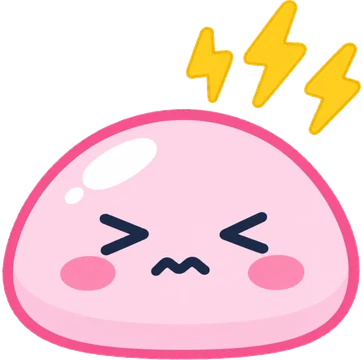
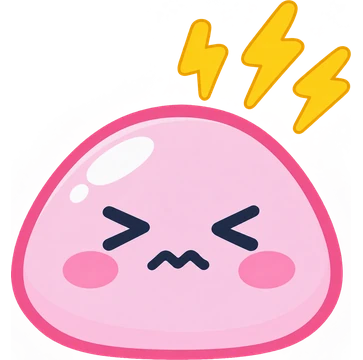
feat(moods): app Mochi mood art and no Log Today phone
- Happy, Sleepy, Crampy and Cozy Mochis generated in ChatGPT from the app's Mochi
  pictures (body shape, outline, face style and colors), keeping each mood's props
  (joy rays, Zzz, lightning bolts, blanket and heart)
- Removed the Log Today phone mockup (LogTodayPhone, MoodFace, SymptomIcon) from the
  section; the grid is now text + moods
- Moods are centered and shown 1.45x larger from the poster breakpoint up, to fill
  the space the phone used; the mobile layout is unchanged apart from the bottom
  padding the phone no longer needs

Claude-Session: https://claude.ai/code/session_01ToUdgrAjtHUxi377A78jyL

diff --git a/src/features/landing/components/sections/MoodSection.tsx b/src/features/landing/components/sections/MoodSection.tsx
@@ -1,14 +1,6 @@
 import Image from "next/image";
 import { useTranslations } from "next-intl";
 import { MOOD_ASSETS } from "@/features/landing/content/assets";
-import {
-  MOOD_FACE_CLASS,
-  MOOD_TONES,
-  SYMPTOM_CHIP_CLASS,
-  SYMPTOM_IDS,
-  type MoodTone,
-} from "@/features/landing/content/visual-variants";
-import { StatusIcons } from "@/features/landing/components/shared/decor";
 import { PosterStage } from "@/features/landing/components/shared/PosterStage";
 import { cn } from "@/lib/utils";
 
@@ -43,137 +35,13 @@ const MOODS = [
   },
 ] as const;
 
-/* Mood faces for the Log Today sheet, drawn to match the app's mood picker. */
-function MoodFace({ tone }: { tone: MoodTone }) {
-  return (
-    <svg className={cn("size-[85%]", MOOD_FACE_CLASS[tone].ink)} viewBox="0 0 24 24" aria-hidden="true">
-      <g fill="none" stroke="currentColor" strokeWidth="1.5" strokeLinecap="round">
-        {tone === "joy" && (
-          <>
-            <path d="M7 10.5q1.5-2 3 0M14 10.5q1.5-2 3 0" />
-            <path d="M8.5 13.5q3.5 3.5 7 0Z" fill="currentColor" />
-          </>
-        )}
-        {tone === "calm" && (
-          <>
-            <path d="M7 10.5q1.5-2 3 0M14 10.5q1.5-2 3 0" />
-            <path d="M10 14q2 1.6 4 0" />
-          </>
-        )}
-        {tone === "meh" && (
-          <>
-            <path d="M7.5 9.5l2 1.2M16.5 9.5l-2 1.2" />
-            <path d="M10.5 15q1.5-1.2 3 0" />
-          </>
-        )}
-        {tone === "sad" && (
-          <>
-            <circle cx="9" cy="10.5" r="1" fill="currentColor" stroke="none" />
-            <circle cx="15" cy="10.5" r="1" fill="currentColor" stroke="none" />
-            <path d="M10 15.5q2-1.6 4 0" />
-          </>
-        )}
-      </g>
-    </svg>
-  );
-}
-
-function SymptomIcon({
-  name,
-}: {
-  name: "cramps" | "bloating" | "headache" | "tired";
-}) {
-  if (name === "cramps")
-    return (
-      <svg className="size-[70%]" viewBox="0 0 24 24" aria-hidden="true">
-        <path className="fill-mood-symptom-cramps" d="M13.5 3 6.5 13h5l-1.5 8 7.5-10.5h-5L13.5 3Z" />
-      </svg>
-    );
-  if (name === "bloating")
-    return (
-      <svg className="size-[70%]" viewBox="0 0 24 24" aria-hidden="true">
-        <g className="stroke-mood-symptom-bloating" fill="none" strokeWidth="1.8" strokeLinecap="round">
-          <path d="M5 9q1.75-2 3.5 0t3.5 0 3.5 0 3.5 0" />
-          <path d="M5 14q1.75-2 3.5 0t3.5 0 3.5 0 3.5 0" />
-        </g>
-      </svg>
-    );
-  if (name === "headache")
-    return (
-      <svg className="size-[70%]" viewBox="0 0 24 24" aria-hidden="true">
-        <path className="fill-mood-symptom-headache" d="M5 16.5c0-5.2 3.1-8.5 7-8.5s7 3.3 7 8.5Z" />
-      </svg>
-    );
-  return (
-    <svg className="size-[70%]" viewBox="0 0 24 24" aria-hidden="true">
-      <text className="fill-mood-symptom-tired" x="6" y="17" fontSize="11" fontWeight="900">
-        z
-      </text>
-      <text className="fill-mood-symptom-tired" x="13" y="12" fontSize="8" fontWeight="900">
-        z
-      </text>
-    </svg>
-  );
-}
-
-function LogTodayPhone() {
-  const t = useTranslations("Moods");
-  const sheetLabel = "mt-7 mb-4 ml-2 text-u-9 font-max";
-  const row = "flex justify-between px-2";
-
-  return (
-    <div
-      className="relative z-2 ml-23 -mb-[calc(var(--section-space)+12*var(--spacing))] self-end h-220 w-172 p-6 border-mood-phone-border border-[length:calc(3*var(--spacing))] rounded-u-30 bg-mood-phone-bg [box-shadow:0_0_0_calc(1*var(--spacing))_var(--color-mood-phone-shadow),0_calc(8*var(--spacing))_calc(18*var(--spacing))_var(--color-mood-phone-shadow-2)] rotate-[4.5deg] max-poster:[--spacing:calc(min(62vw,290px)/172)] max-poster:h-150 max-poster:mt-[26px] max-poster:-mb-12 max-poster:mx-auto max-poster:rounded-b-none"
-      role="img"
-      aria-label={t("phoneLabel")}
-    >
-      <div className="h-full overflow-hidden px-11 pt-7 rounded-u-24 bg-mood-screen-bg text-ink-slate" aria-hidden="true">
-        <div className="relative flex h-12 items-center justify-between px-4">
-          <b className="text-u-6.5 font-black">9:41</b>
-          <i className="absolute left-1/2 -top-1 h-10 w-36 rounded-full bg-black -translate-x-1/2" />
-          <StatusIcons className="h-auto w-26 text-ink-slate" />
-        </div>
-        <div className="relative flex items-center justify-center mt-5">
-          <span className="absolute left-2 top-1/2 text-u-13 font-bold leading-none -translate-y-[55%]">×</span>
-          <b className="text-u-11 font-max tracking-[-0.01em]">{t("logToday")}</b>
-        </div>
-        <p className={sheetLabel}>{t("mood")}</p>
-        <ul className={row}>
-          {MOOD_TONES.map((tone) => (
-            <li
-              key={tone}
-              className={cn(
-                "grid size-21 place-items-center rounded-full [box-shadow:0_calc(1*var(--spacing))_calc(3*var(--spacing))_var(--color-mood-face-shadow)]",
-                MOOD_FACE_CLASS[tone].chip,
-              )}
-            >
-              <MoodFace tone={tone} />
-            </li>
-          ))}
-        </ul>
-        <p className={sheetLabel}>{t("symptoms")}</p>
-        <ul className={row}>
-          {SYMPTOM_IDS.map((id) => (
-            <li key={id} className="grid justify-items-center gap-2 text-u-5 font-black">
-              <span className={cn("grid size-21 place-items-center rounded-full", SYMPTOM_CHIP_CLASS[id])}>
-                <SymptomIcon name={id} />
-              </span>
-              {t(`symptomNames.${id}`)}
-            </li>
-          ))}
-        </ul>
-      </div>
-    </div>
-  );
-}
-
-/** Section 3: four mood Mochis and the Log Today sheet. */
+/** Section 3: four mood Mochis. */
 export function MoodSection() {
   const t = useTranslations("Moods");
 
   return (
     <section id="moods" className="relative overflow-hidden bg-mood-band text-white">
-      <PosterStage bleed="bottom" className="grid items-center px-58 grid-cols-[calc(339*var(--spacing))_calc(404*var(--spacing))_1fr] max-poster:block max-poster:px-[clamp(20px,4vw,40px)]">
+      <PosterStage className="grid items-center px-58 grid-cols-[calc(339*var(--spacing))_1fr] max-poster:block max-poster:px-[clamp(20px,4vw,40px)]">
         <div className="relative z-3 pr-16 max-poster:mx-auto max-poster:max-w-[640px] max-poster:pr-0 max-poster:text-center">
           <h2 className="text-balance text-white text-u-28 font-max leading-[1.03] tracking-[-0.015em] max-poster:text-[clamp(36px,6.4vw,52px)] max-phone:text-[30px]">
             <span className="block">{t("title1")}</span> <span className="block">{t("title2")}</span>
@@ -181,7 +49,7 @@ export function MoodSection() {
           <p className="mt-9 w-252 text-u-[12.8] font-demibold leading-[1.3] max-poster:w-auto max-poster:max-w-[460px] max-poster:mt-[14px] max-poster:mx-auto max-poster:text-[17px] max-phone:text-[15px]">{t("body")}</p>
         </div>
 
-        <ul className="flex justify-between max-poster:block max-poster:[--m:calc(min(100vw-32px,700px)/410)] max-poster:relative max-poster:h-[calc(130*var(--m))] max-poster:w-[calc(410*var(--m))] max-poster:mt-[26px] max-poster:mb-0 max-poster:mx-auto">
+        <ul className="flex justify-center gap-16 poster:scale-[1.45] max-poster:block max-poster:[--m:calc(min(100vw-32px,700px)/410)] max-poster:relative max-poster:h-[calc(130*var(--m))] max-poster:w-[calc(410*var(--m))] max-poster:mt-[26px] max-poster:mb-0 max-poster:mx-auto">
           {MOODS.map((mood) => (
             <li
               key={mood.id}
@@ -202,8 +70,6 @@ export function MoodSection() {
             </li>
           ))}
         </ul>
-
-        <LogTodayPhone />
       </PosterStage>
     </section>
   );
